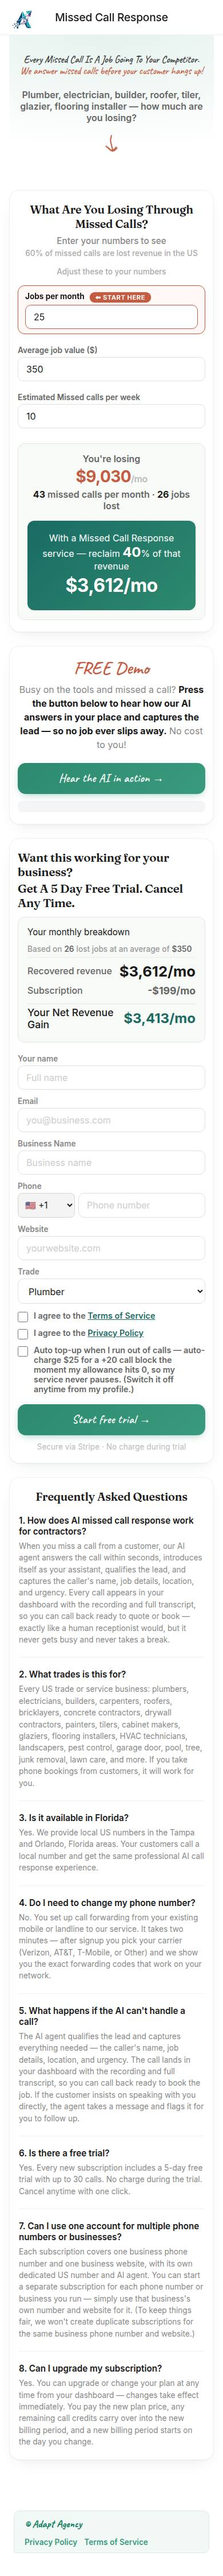
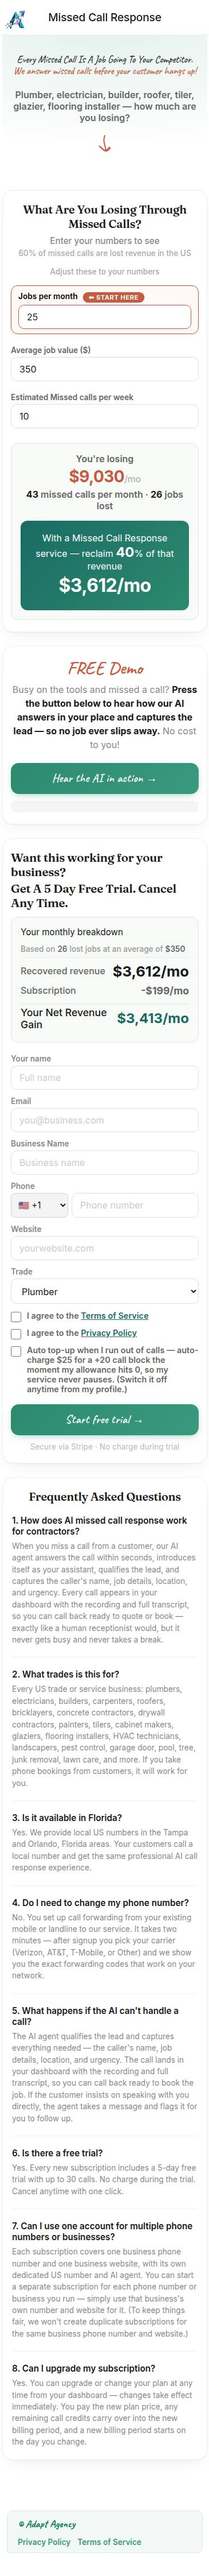
fix(gallery): LeadResponse lightbox image trimmed to true content edges (365px wide, full-bleed) + ?v=3 cache-buster

diff --git a/gallery.html b/gallery.html
@@ -550,7 +550,7 @@
           </figure>
           <figure class="gallery-card break-inside-avoid overflow-hidden rounded-xl border border-aa-border bg-white shadow-sm transition-shadow hover:shadow-md">
             <button type="button" class="gallery-trigger block w-full cursor-zoom-in text-left" data-i18n-aria="lb_enlarge">
-              <img src="gallery/img/leadresponse.jpg" data-full="gallery/img/full/leadresponse.jpg?v=2" width="1000" height="562" alt="LeadResponse — homepage" loading="lazy" decoding="async" class="h-auto w-full" data-i18n-alt="alt_leadresponse" />
+              <img src="gallery/img/leadresponse.jpg" data-full="gallery/img/full/leadresponse.jpg?v=3" width="1000" height="562" alt="LeadResponse — homepage" loading="lazy" decoding="async" class="h-auto w-full" data-i18n-alt="alt_leadresponse" />
             </button>
             <figcaption class="px-4 py-3 text-sm font-medium text-aa-text">LeadResponse</figcaption>
           </figure>
